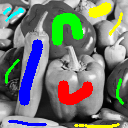
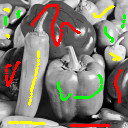
latest

diff --git a/example_color_benchmark.py b/example_color_benchmark.py
@@ -12,15 +12,9 @@ from scipy.misc import imread
 import imageio
 np.set_printoptions(precision=8, suppress=True)
 
-# set the photo file path
-#path_pic = 'LoResBW_peppers.png'
-#path_pic_marked = 'LoResBW_peppers_marked.png'
 PATH = 'images/'
-path_pic = PATH+'LoResBW_colorized_test.png'
-path_pic_marked = PATH+'LoResMark_colorized_test.png'
-# path_pic = 'lr_peppers.png'
-# path_pic_marked = 'lr_peppers_marked.png'
-# window width
+path_pic = PATH+'HiResBW_colorized_test.png'
+path_pic_marked = PATH+'HiResMark_colorized_test.png'
 wd_width = 1
 
 pic_o_rgb = imread(path_pic)
@@ -28,15 +22,6 @@ pic_o = pic_o_rgb.astype(float)/255
 pic_m_rgb = imread(path_pic_marked)
 pic_m = pic_m_rgb.astype(float)/255
 
-
-
-# fig = plt.figure()
-# fig.add_subplot(1,2,1).set_title('Black & White')
-# imgplot = plt.imshow(pic_o_rgb)
-# fig.add_subplot(1,2,2).set_title('Color Hints')
-# imgplot = plt.imshow(pic_m_rgb)
-
-# plt.show();
 
 class WindowNeighbor:
     def __init__(self, width, center, pic):

diff --git a/twodays.py b/twodays.py
@@ -48,13 +48,11 @@ if __name__ == "__main__":
     imwrite(PATH+'LoResBW_'+HIGH_RES_IMAGE, low_res_bw_image)
 
     # User marks the smaller black and white image (LoResBW -> LoResMark)
-    low_res_mark_image = cv2.imread(PATH+'LoResMark_'+HIGH_RES_IMAGE)
-    # low_res_mark_image = color_image('LoResBW_'+HIGH_RES_IMAGE, HIGH_RES_IMAGE)
+    # low_res_mark_image = cv2.imread(PATH+'LoResMark_'+HIGH_RES_IMAGE)
+    low_res_mark_image = color_image('LoResBW_'+HIGH_RES_IMAGE, HIGH_RES_IMAGE)
     fig.add_subplot(2,2,4).set_title('marked low_res bw')
     imgplot = plt.imshow(imread(PATH+'LoResMark_'+HIGH_RES_IMAGE))
     plt.show();
-
-    # cv2.imshow('LoResMark', low_res_mark_image)
 
     # read in images
 

diff --git a/color_image.py b/color_image.py
@@ -50,11 +50,11 @@ def color_image(img, name):
         elif k == ord('m'):
             RADIUS = min(RADIUS+1,100)
         elif k == 27:
-            cv2.imwrite(PATH+'LoResMark_'+name,image)
+            cv2.imwrite(PATH+'HiResMark_'+name,image)
             break
 
     cv2.destroyAllWindows()
     return image
 
 if __name__ == "__main__":
-    color_image('maplestory.jpg','maplestory.jpg')
+    color_image('HiResBW_colorized_test.png','colorized_test.png')
